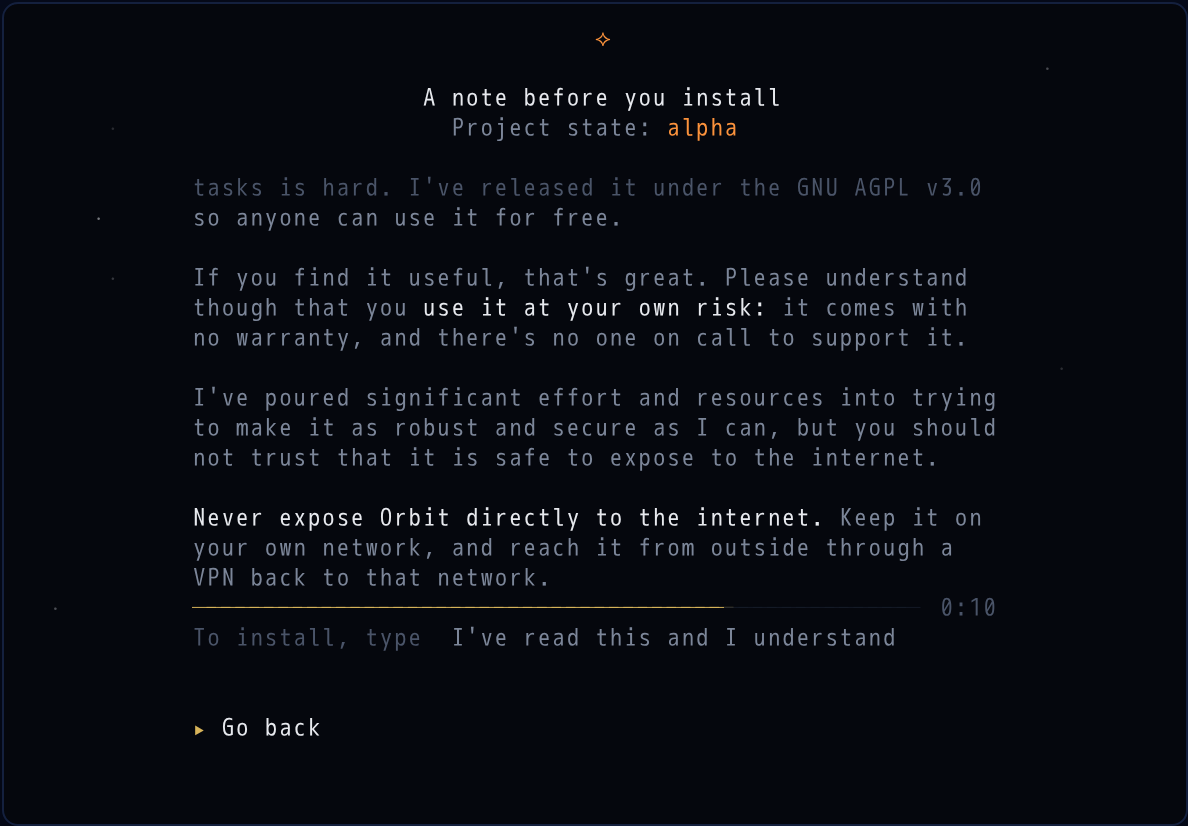
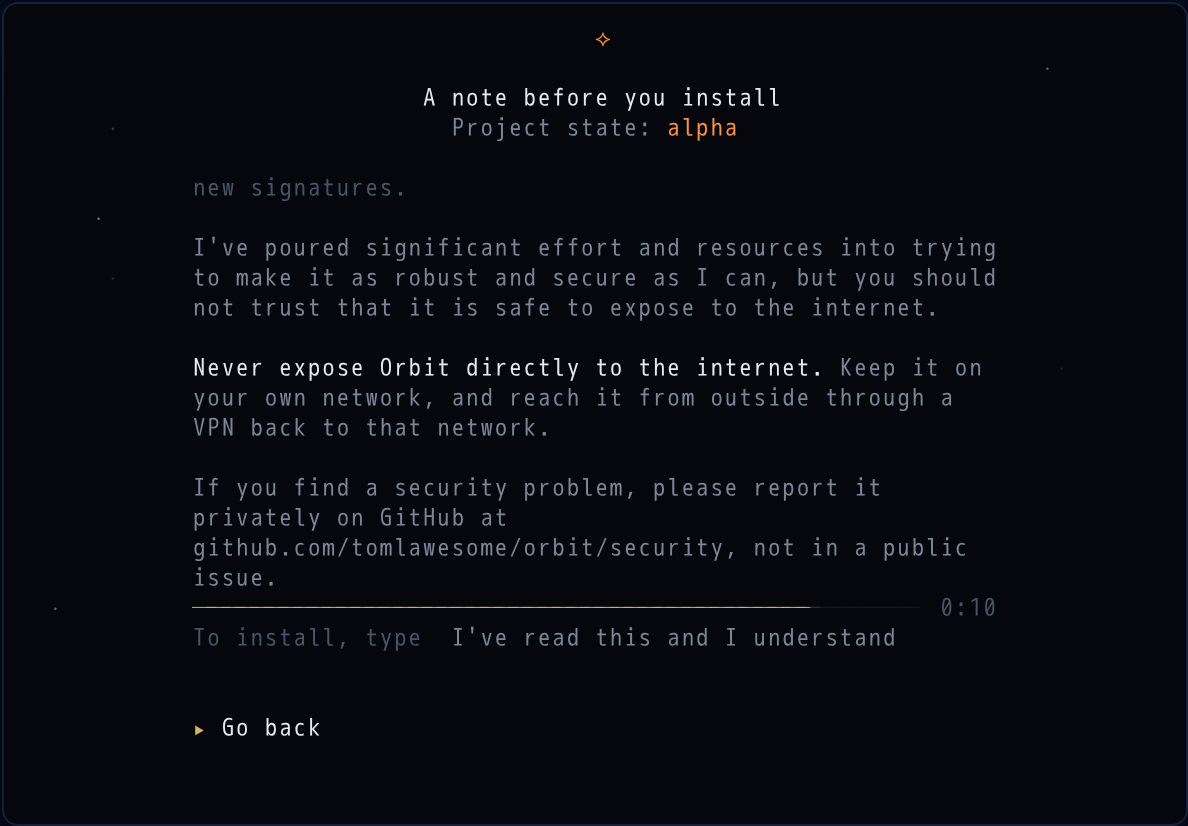
docs(design): approved notice copy, 70 s countdown, gap-free bottom cue (#175)

diff --git a/design/mockups-v7-notice.html b/design/mockups-v7-notice.html
@@ -39,12 +39,12 @@
 <h1>orbit-launcher · v7 — the development notice · #175</h1>
 <div class="sub">
   One new screen in the Install flow: profile → confirm → <b>notice</b> → mission console.
-  Three things gate the install: the prose has been on screen to its last line, a 40-second timer has run
+  Three things gate the install: the prose has been on screen to its last line, a 70-second timer has run
   out, and the person has typed <b>I've read this and I understand</b>. The timer, the typed field and Go
-  back are pinned in view from the first frame; only the prose scrolls. Cell-truth renders, colours from
-  <code>internal/ui/style/style.go</code>, every glyph one the app already draws. The sky and the countdown
-  animate as the app would (10 fps, whole-cell steps); both stop under <code>prefers-reduced-motion</code>.
-  Nothing here is approved yet.
+  back are pinned in view from the first frame; only the prose scrolls. Copy is the owner's approved final
+  text, verbatim. Cell-truth renders, colours from <code>internal/ui/style/style.go</code>, every glyph one
+  the app already draws. The sky and the countdown animate as the app would (10 fps, whole-cell steps);
+  both stop under <code>prefers-reduced-motion</code>. Nothing else here is approved yet.
 </div>
 
 <div class="layout">
@@ -53,25 +53,26 @@
 <section>
   <h2><span>a</span> First view — 80×26, the house minimum</h2>
   <div class="term scene" id="scene-a"><pre class="cells" id="n-a" role="img"
-    aria-label="Notice screen at 80 by 26 cells: amber orbit mark, bold title A note before you install, Project state alpha, then prose with three phrases in bold bright ink; the last visible row is faint. Pinned beneath: a thin timer line just starting to fill gold with 0:38 at its end, a faint prompt To install, type I've read this and I understand, an empty row where the field will wake, and the caret on Go back."></pre></div>
+    aria-label="Notice screen at 80 by 26 cells: amber orbit mark, bold title A note before you install, Project state alpha, then the first fourteen rows of prose with the emphasised phrase I'm not a professional software engineer in bold; the last visible row is faint and cut mid-sentence. Pinned beneath: a thin timer line just starting to fill gold with 1:08 at its end, a faint prompt To install, type I've read this and I understand, an empty row where the field will wake, and the caret on Go back."></pre></div>
   <div class="cap">Header and the bottom region (timer, prompt, field, Go back) are pinned; only the prose
-    between them scrolls. The last visible prose row steps down to faint: the sign there is more
-    (here the cut happens to land at a sentence end, so the faint step is doing all the work). The countdown is already running; the prompt is faint and the field row empty —
-    not yet awake; Go back carries the caret.</div>
+    between them scrolls — here fourteen of its thirty-eight rows. The last visible prose row steps
+    down to faint and is cut mid-sentence: the sign there is more. The countdown is already running;
+    the prompt is faint and the field row empty — not yet awake; Go back carries the caret.</div>
 </section>
 
 <section>
-  <h2><span>b</span> Scrolled partway — one row down</h2>
+  <h2><span>b</span> Scrolled partway — a screen down</h2>
   <div class="term scene" id="scene-b"><pre class="cells" id="n-b" role="img"
-    aria-label="Same screen scrolled one row: the first visible prose row is faint, the last visible prose row is faint; the pinned region has not moved and the timer line is a little fuller."></pre></div>
-  <div class="cap">Faint at both edges now: text above, more below. The pinned region has not moved; the
-    line has filled a little further.</div>
+    aria-label="Same screen after one PgDn: the first visible prose row is faint, the last visible prose row is faint; the pinned region has not moved and the timer line is a little fuller."></pre></div>
+  <div class="cap">One <kbd>PgDn</kbd> (a viewport less one row, so the last line read is the first
+    line seen). Faint at both edges now: text above, more below. The pinned region has not moved;
+    the line has filled a little further.</div>
 </section>
 
 <section>
   <h2><span>f</span> End reached, timer still running</h2>
   <div class="term scene" id="scene-f"><pre class="cells" id="n-f" role="img"
-    aria-label="Scrolled to the end: no faint row at the bottom; the timer line is about two thirds gold with the seconds left at its end; the prompt is still faint and the field row empty; the caret on Go back. The countdown animates to zero, then the line disappears, the prompt brightens and the field shows a gold caret and cursor."></pre></div>
+    aria-label="Scrolled to the end: no faint row at the bottom, the security paragraph fully in view; the timer line is about four fifths gold with the seconds left at its end; the prompt is still faint and the field row empty; the caret on Go back. The countdown animates to zero, then the line disappears, the prompt brightens and the field shows a gold caret and cursor."></pre></div>
   <div class="cap">A fast scroller: the prose has reached its last line, so the bottom fade is gone, but
     the timer is still running and the field is still asleep. At 0:00 the line goes blank, the prompt
     brightens and the field wakes with its gold caret and cursor. (Animates here; loops.)</div>
@@ -106,27 +107,32 @@
 </section>
 
 <section>
-  <h2><span>e</span> A tall terminal — 120×50, everything fits</h2>
+  <h2><span>e</span> A tall terminal — 120×50, everything just fits</h2>
   <div class="term scene" id="scene-e"><pre class="cells" id="n-e" role="img"
-    aria-label="Notice at 120 by 50 cells on arrival: the whole block sits at the optical centre, no faint rows, the timer line just starting at 0:40, faint prompt, empty field row, caret on Go back. The countdown animates to zero here, then the field wakes."></pre></div>
-  <div class="cap">Nothing to scroll, so nothing is asked for; the timer is the only wait. Header, prose
-    and bottom region are one block at the 0.42 optical centre like every other screen; the measure
-    stays 56 columns. (Animates here from 0:40; loops.)</div>
+    aria-label="Notice at 120 by 50 cells on arrival: the whole block fills the frame top to bottom, no faint rows, the timer line just starting at 1:10, faint prompt, empty field row, caret on Go back. The countdown animates to zero here, then the field wakes."></pre></div>
+  <div class="cap">Thirty-eight rows of prose in a thirty-eight-row viewport: it fits with no row to spare,
+    so the block fills the frame and nothing scrolls. One row shorter and the last line would hang faint
+    below the edge like scene a — the same screen, the same cue. The timer is the only wait here.
+    (Animates from 1:10; loops.)</div>
 </section>
 
 </div>
 
 <aside class="panel" aria-label="Design decisions for owner review">
   <h2>Decisions, for review</h2>
-  <p>Each is a proposal with its reasoning. None is approved.</p>
+  <p>Each is a proposal with its reasoning. The copy, the phrase and the prompt label are approved;
+    the rest is not.</p>
 
   <h3>1 · Showing there is more</h3>
   <p>The last visible prose row is drawn <b>faint</b> instead of muted, and the sentence is cut by the
     edge. Scrolled down, the top row goes faint too. That is the whole signal: no hint text, no corner
     glyph, no scroll track — the house has none, and a cut-off sentence is a thing everyone knows how
     to finish. A scroll track was considered and dropped: it adds a column of noise to say "a little
-    more", and position does not matter for a text this short. Where the cut lands depends on the
-    terminal's height; the faint row is the cue that is always there, the hanging sentence a bonus.</p>
+    more", and position does not matter for a text this short. One rule keeps the cue honest at every
+    height: <b>a paragraph gap is never the viewport's last row while more follows</b> — the next
+    line is pulled up into its place — so the bottom row is always a line of text, faint, and usually
+    cut mid-sentence. Without it, the 80×26 first view of this copy would have ended on a blank row
+    after "up to you.", which reads as an ending.</p>
 
   <h3>2 · The bottom region and its states</h3>
   <p>Pinned at the bottom of the frame, in view from the first frame at every size: the timer row,
@@ -141,48 +147,51 @@
 
   <h3>3 · Every install</h3>
   <p><b>Every install</b>, not once per machine. The notice is the install's own gate, like the
-    confirm screen, and costs under a minute. A remembered "already agreed" needs a file somewhere
+    confirm screen, and costs about a minute. A remembered "already agreed" needs a file somewhere
     that can be wrong — another user on the box, a copied image — and would make the launcher
     stateful for nothing. Update and repair never see it.</p>
 
   <h3>4 · Keys</h3>
   <p><kbd>PgDn</kbd> <kbd>space</kbd>-before-the-field-wakes, <kbd>PgUp</kbd>, <kbd>Home</kbd>
     <kbd>End</kbd> and the wheel (three rows a notch, mouse reporting on for this view only) always
-    scroll the prose. <kbd>↓</kbd> <kbd>↑</kbd> scroll it too, except that <kbd>↓</kbd> from the
-    awake field steps the caret onto Go back, and <kbd>↑</kbd> from Go back steps it into the awake
-    field — the caret walks the page: prose, then field, then Go back. Letters and <kbd>space</kbd>
-    go to the field whenever it is awake, wherever the caret is; typing is what claims it. The field
-    has no cursor movement, so <kbd>Home</kbd> <kbd>End</kbd> stay with the prose, and
-    <kbd>backspace</kbd> trims — the configure screen's field works the same way. <b><kbd>↵</kbd></b>
-    on Go back goes back; in the field it submits (see 8); a quick triple <kbd>↵</kbd> from the
-    confirm screen lands back on Ready to install, never in an install. <b><kbd>esc</kbd> is Go
-    back at any moment</b>: one step, to Ready to install, the same step the confirm screen's own
-    <kbd>esc</kbd> takes.</p>
+    scroll the prose; a page is the viewport less one row, so the last line read is the first line
+    seen. <kbd>↓</kbd> <kbd>↑</kbd> scroll it too, except that <kbd>↓</kbd> from the awake field
+    steps the caret onto Go back, and <kbd>↑</kbd> from Go back steps it into the awake field — the
+    caret walks the page: prose, then field, then Go back. Letters and <kbd>space</kbd> go to the
+    field whenever it is awake, wherever the caret is; typing is what claims it. The field has no
+    cursor movement, so <kbd>Home</kbd> <kbd>End</kbd> stay with the prose, and <kbd>backspace</kbd>
+    trims — the configure screen's field works the same way. <b><kbd>↵</kbd></b> on Go back goes
+    back; in the field it submits (see 8); a quick triple <kbd>↵</kbd> from the confirm screen lands
+    back on Ready to install, never in an install. <b><kbd>esc</kbd> is Go back at any moment</b>:
+    one step, to Ready to install, the same step the confirm screen's own <kbd>esc</kbd> takes.</p>
 
   <h3>5 · 80×26, and tall</h3>
-  <p>At 80×26 the header (blank, ⟡, blank, title, state, blank) takes six rows and the bottom region
-    (timer, prompt, field, feedback, Go back, blank) six, leaving a fourteen-row viewport for eighteen
-    rows of prose: <b>the last paragraph and a half hang below the edge</b> and four rows of
-    scrolling reveal them. "The end" is the prose's last line having been on screen. (At 80×24, a
-    common default, the viewport is twelve rows.) At the minimum size the block fills the frame top
-    to bottom, so the 0.42 placement collapses to zero — there is no spare room, and none is needed.
-    On a tall terminal nothing scrolls and nothing pretends to: the block centres as on every screen
-    and the timer is the only wait. The scroll requirement is "the whole notice has been on
-    screen", not "a scroll happened".</p>
+  <p>The approved copy wraps to <b>thirty-eight rows</b> at the 56-column measure (nine paragraphs,
+    eight gaps). At 80×26 the header (blank, ⟡, blank, title, state, blank) takes six rows and the
+    bottom region (timer, prompt, field, feedback, Go back, blank) six, leaving a fourteen-row
+    viewport: <b>twenty-four rows hang below the edge</b> — two <kbd>PgDn</kbd>, or one
+    <kbd>End</kbd>, to reach the last line. "The end" is the prose's last line having been on screen.
+    (At 80×24, a common default, the viewport is twelve rows.) At the minimum size the block fills
+    the frame top to bottom, so the 0.42 placement collapses to zero — there is no spare room, and
+    none is needed. At 120×50 the viewport is thirty-eight rows: <b>it fits exactly</b>, with no row
+    to spare, so the block fills that frame too and nothing scrolls; at 120×49 the last line hangs
+    faint below the edge and one <kbd>↓</kbd> shows it — the same screen, no special case. The scroll
+    requirement is "the whole notice has been on screen", not "a scroll happened".</p>
 
   <h3>6 · The timer</h3>
-  <p><b>40 seconds.</b> 144 words at 238 words a minute (Brysbaert 2019, average adult silent
-    reading) is 36.3 s. Rounded <b>up</b> to the next ten: up because the average is the midpoint
-    and half of readers are slower; to a round number because 0:36 looks computed and 0:40 looks
-    chosen. It starts when the screen appears, not on a key. <b>Look:</b> one row, directly under the
-    prose — a thin line of <code>─</code> cells filling gold over the <code>BorderSoft</code> track
-    (the mission console's own bar, at 50 cells one cell per 0.8 s, whole-cell steps) with the
-    seconds left as a faint <code>m:ss</code> at its end (the console's clock format). No percentage.
-    When it reaches 0:00 the row goes blank — the gate is gone, so its object is gone. It is not a
-    motion beat, so <code>ORBIT_LAUNCHER_NO_ANIMATION</code> does not skip it — without the sky's
-    tick chain it needs its own one-second tick. <b>Order does not matter:</b> end first, the person
-    waits by the sleeping field with the line filling (scene f); timer first, the line vanishes while
-    they are still reading and the field wakes the moment the last line scrolls in.</p>
+  <p><b>70 seconds.</b> The approved copy is 257 words (title and state line included, since they
+    are read too); at 238 words a minute (Brysbaert 2019, average adult silent reading) that is
+    64.8 s. Rounded <b>up</b> to the next ten, as before: up because the average is the midpoint and
+    half of readers are slower; to a round number because 1:05 looks computed and 1:10 looks chosen.
+    It starts when the screen appears, not on a key. <b>Look:</b> one row, directly under the prose —
+    a thin line of <code>─</code> cells filling gold over the <code>BorderSoft</code> track (the
+    mission console's own bar; 50 cells, so one cell every 1.4 s, whole-cell steps) with the seconds
+    left as a faint <code>m:ss</code> at its end (the console's clock format), counting from 1:10.
+    No percentage. When it reaches 0:00 the row goes blank — the gate is gone, so its object is gone.
+    It is not a motion beat, so <code>ORBIT_LAUNCHER_NO_ANIMATION</code> does not skip it — without
+    the sky's tick chain it needs its own one-second tick. <b>Order does not matter:</b> end first,
+    the person waits by the sleeping field with the line filling (scene f); timer first, the line
+    vanishes while they are still reading and the field wakes the moment the last line scrolls in.</p>
 
   <h3>7 · Emphasis (owner, 2026-10-03)</h3>
   <p>Three phrases, wording untouched: "I'm not a professional software engineer", "use it at your own
@@ -191,7 +200,8 @@
     title already uses — and bold <code>TextMuted</code> on a faded row, so the phrase steps down
     with its row and still stands one step above it. Whole cells, two existing tokens, no new colour:
     gold is the caret's and amber is state. Under <code>NO_COLOR</code> the steps vanish and bold
-    alone carries it, which is why bold is part of the rule and not a fallback.</p>
+    alone carries it, which is why bold is part of the rule and not a fallback. The new paragraphs
+    carry no emphasis; the owner chose three phrases and three is what makes them stand out.</p>
 
   <h3>8 · The typed confirmation (owner, 2026-10-03)</h3>
   <p><b>Look:</b> the configure screen's field, unchanged — gold <code>▸</code>, the typed text in
@@ -200,35 +210,30 @@
     row, <code>To install, type</code> in muted ink and the phrase itself in bright ink, so the thing
     to type is unmistakable without quotes. That is the question, not a key hint, so the house rule
     allows it. <b>Asleep until both gates pass</b>, then awake: typing takes five seconds against a
-    forty-second wait, a field that accepts letters it cannot yet submit invites a puzzled wait, and
-    waking is the "something changed" the person is watching for. <b>What matches</b> (owner ruling,
-    2026-10-03: capitals and apostrophes don't matter, words do): both sides are compared after
-    lower-casing, removing every apostrophe-like mark (' ’ ‘ ´ `), collapsing runs of spaces to one,
-    trimming the ends and dropping one trailing full stop; then they must be identical, with one
-    further ruling: "I have read this and I understand" is accepted as the same phrase, so after
-    normalising, a leading "i have" counts as "ive". So "ive read this and i understand", "I'VE READ
-    THIS AND I UNDERSTAND", "I have read this and I understand" and a curly ’ all pass; a missing or
-    different word — "I read this and I understand", "I've read it" — fails. <b><kbd>↵</kbd> on an empty field does
-    nothing</b>; on a partial or wrong phrase it shows <i>That isn't the phrase yet — type it exactly
-    as shown</i> in amber, keeps the typed text for fixing, and the next keystroke clears the message.
-    No attempt counter: nothing is at stake in retrying. <b>Go back stays a visible row</b>: Esc
-    needs no hint, but a visible way out is what every flow screen offers, and a text field with no
-    neighbour would leave a stuck person with nothing to try but keys they cannot be told about.</p>
-
-  <div class="prop">
-    <h3>Proposal · prompt wording</h3>
-    <p>The phrase is the owner's, verbatim. The prompt label <b>"To install, type"</b> is mine and
-      open to change; it is the only new copy on the screen.</p>
-  </div>
+    seventy-second wait, a field that accepts letters it cannot yet submit invites a puzzled wait, and
+    waking is the "something changed" the person is watching for. <b>What matches</b> (owner rulings,
+    2026-10-03: capitals and apostrophes don't matter, "I have" equals "I've", words do matter): both
+    sides are compared after lower-casing, removing every apostrophe-like mark (' ’ ‘ ´ `),
+    collapsing runs of spaces to one, trimming the ends and dropping one trailing full stop; then they
+    must be identical, except that after normalising, a leading "i have" counts as "ive". So
+    "ive read this and i understand", "I'VE READ THIS AND I UNDERSTAND", "I have read this and I
+    understand" and a curly ’ all pass; a missing or different word — "I read this and I
+    understand", "I've read it" — fails. <b><kbd>↵</kbd> on an empty field does nothing</b>; on a
+    partial or wrong phrase it shows <i>That isn't the phrase yet — type it exactly as shown</i> in
+    amber, keeps the typed text for fixing, and the next keystroke clears the message. No attempt
+    counter: nothing is at stake in retrying. <b>Go back stays a visible row</b>: Esc needs no hint,
+    but a visible way out is what every flow screen offers, and a text field with no neighbour would
+    leave a stuck person with nothing to try but keys they cannot be told about.</p>
 
   <h3>In-grammar details</h3>
   <p>Amber ⟡, as the flow's two other cautionary screens use (stale volume, unavailable profile).
     "alpha" in the same amber — the one state colour, twice, as the splash pairs mark and status word.
     Prose left-aligned as one 56-column block, centred as a block: the sign-in screen's ratified
-    grammar. Every line of the view, header included, is padded to the block's width plus a two-cell
-    gutter each side (60 cells), so <code>compositeScene</code> keeps the sky — stars and planets —
-    out of that rectangle, as it does under any padded line today. No foot. The timer length should
-    be a variable so tests can shorten it.</p>
+    grammar; the security address <code>github.com/tomlawesome/orbit/security</code> is 37 cells and
+    never breaks across rows at that measure. Every line of the view, header included, is padded to
+    the block's width plus a two-cell gutter each side (60 cells), so <code>compositeScene</code>
+    keeps the sky — stars and planets — out of that rectangle, as it does under any padded line
+    today. No foot. The timer length should be a variable so tests can shorten it.</p>
 
   <h3>Changed since the first pass</h3>
   <p>· Timer and choices were the document's tail and started below the fold at 80×26; now they are
@@ -240,15 +245,18 @@
     · Third pass: the owner's three phrases are emphasised (see 7), in every scene including the
     faded rows.<br>
     · Fourth pass: the accept choice is gone; in its place the typed confirmation (see 8) — prompt,
-    field and feedback rows — with the bottom region now six rows and the 80×26 viewport fourteen.
-    Keys re-cut around a field that has focus (see 4). Two scenes added: partly typed (c) and a
-    wrong phrase after Enter (g).</p>
+    field and feedback rows. Keys re-cut around a field that has focus (see 4). Two scenes added:
+    partly typed (c) and a wrong phrase after Enter (g). Owner rulings on matching folded in.<br>
+    · Fifth pass: the approved final copy, verbatim (nine paragraphs, 38 rows). Timer re-derived:
+    257 words → 64.8 s → <b>70 s</b>, one bar cell per 1.4 s. 80×26 now hides 24 rows (two pages);
+    120×50 fits exactly. New rule in 1 so the bottom cue never lands on a paragraph gap. Scene b is
+    now a page down rather than a row.</p>
 </aside>
 </div>
 
 <footer>
-  v7 · #175 · 80×26 and 120×50 · 10 fps · colour steps and whole-cell moves only. Nothing approved;
-  design/DECISIONS.md is untouched until the owner rules.
+  v7 · #175 · 80×26 and 120×50 · 10 fps · colour steps and whole-cell moves only. Copy, phrase and
+  prompt approved; design/DECISIONS.md is untouched until the owner rules on the rest.
 </footer>
 
 <script>
@@ -297,26 +305,30 @@ function drawSystems(S,t){
 // ---- palette: internal/ui/style/style.go ----------------------------------
 const TEXT="#e7e9ee", MUTED="#7c8699", FAINT="#4a5468", GOLD="#d8b45a", AMBER="#fb923c", TRACK="#151b28";
 
-// ---- the copy, verbatim (owner, 2026-10-03, #175); line breaks are ours ----
+// ---- the approved copy, verbatim (owner, 2026-10-03, #175); line breaks are ours ----
 const TITLE="A note before you install";
 const STATE_LABEL="Project state: ", STATE_WORD="alpha";
 const PARAS=[
   "I designed Orbit. Claude, an AI model, wrote the code.",
   "I'm not a professional software engineer. I built Orbit for myself, because keeping track of so many life admin tasks is hard. I've released it under the GNU AGPL v3.0 so anyone can use it for free.",
   "If you find it useful, that's great. Please understand though that you use it at your own risk: it comes with no warranty, and there's no one on call to support it.",
+  "Everything Orbit stores stays on your own machine, and backing it up is up to you.",
+  "Because Orbit is in alpha, upgrading it is not guaranteed to keep your data. Always back up before you upgrade.",
+  "Orbit sends no data or telemetry about you or your installation anywhere. It does reach the internet for a few things, and sends none of your data when it does: installing and upgrading downloads files from GitHub and Docker Hub, the launcher checks GitHub for a newer version when it starts, and the virus scanner downloads new signatures.",
   "I've poured significant effort and resources into trying to make it as robust and secure as I can, but you should not trust that it is safe to expose to the internet.",
-  "Never expose Orbit directly to the internet. Keep it on your own network, and reach it from outside through a VPN back to that network."
+  "Never expose Orbit directly to the internet. Keep it on your own network, and reach it from outside through a VPN back to that network.",
+  "If you find a security problem, please report it privately on GitHub at github.com/tomlawesome/orbit/security, not in a public issue."
 ];
 // Owner-chosen emphasis (2026-10-03): three phrases, wording untouched.
 const EMPH=["I'm not a professional software engineer","use it at your own risk","Never expose Orbit directly to the internet"];
-// The typed confirmation (owner, 2026-10-03): the phrase is verbatim; the prompt label is a proposal.
+// The typed confirmation (owner, 2026-10-03): phrase and prompt label both approved.
 const PHRASE="I've read this and I understand";
 const PROMPT_LABEL="To install, type  ";
 const REFUSAL="That isn't the phrase yet — type it exactly as shown";
 const GO_BACK="Go back";
 const MEASURE=56;
-const TIMER_S=40;          // 144 words / 238 wpm = 36.3 s, rounded up to the next ten
-const BAR_CELLS=MEASURE-6; // the line, then two spaces and m:ss
+const TIMER_S=70;          // 257 words / 238 wpm = 64.8 s, rounded up to the next ten
+const BAR_CELLS=MEASURE-6; // the line, then two spaces and m:ss — one cell per 1.4 s
 const GUTTER=2;            // every view line is padded to MEASURE+2*GUTTER; the sky stays outside
 
 // wrap: rows of segments {text, em}; markers bracket the emphasised phrases
@@ -367,8 +379,15 @@ function noticeScreen(id,W,H,state){
   const viewport=H-12;                          // header 6 rows + bottom region 6 rows
   const fits=DOC.length<=viewport;
   const offset=fits?0:Math.min(state.offset, DOC.length-viewport);
-  const endReached=fits||offset+viewport>=DOC.length;
   const visible=DOC.slice(offset, offset+viewport);
+  let lastShown=offset+visible.length-1;
+  // a paragraph gap is never the viewport's last row while more follows: the
+  // next line is pulled up into its place, so the bottom cue is always a line
+  // of text (faint, usually cut mid-sentence), never a blank that reads as an end
+  if(!fits&&lastShown<DOC.length-1&&visible[visible.length-1].kind==="blank"){
+    lastShown++; visible[visible.length-1]=DOC[lastShown];
+  }
+  const endReached=fits||lastShown>=DOC.length-1;
   const nLines=6+visible.length+6;               // header + viewport rows + bottom region
   const top=Math.floor(0.42*(H-1-nLines));
   const left=CX-Math.floor(MEASURE/2);          // the block's left edge
@@ -444,8 +463,8 @@ function noticeScreen(id,W,H,state){
 }
 
 noticeScreen("n-a",80,26,{offset:0,  elapsed:2});
-noticeScreen("n-b",80,26,{offset:1,  elapsed:12});
-noticeScreen("n-f",80,26,{offset:99, elapsed:26, run:true});
+noticeScreen("n-b",80,26,{offset:13, elapsed:20});          // one PgDn: viewport (14) less one row
+noticeScreen("n-f",80,26,{offset:99, elapsed:56, run:true});
 noticeScreen("n-c",80,26,{offset:99, elapsed:TIMER_S, focus:"field", typed:"I've read th"});
 noticeScreen("n-g",80,26,{offset:99, elapsed:TIMER_S, focus:"field", typed:"I read this and I understand", refused:true});
 noticeScreen("n-d",80,26,{offset:99, elapsed:TIMER_S, focus:"back"});
